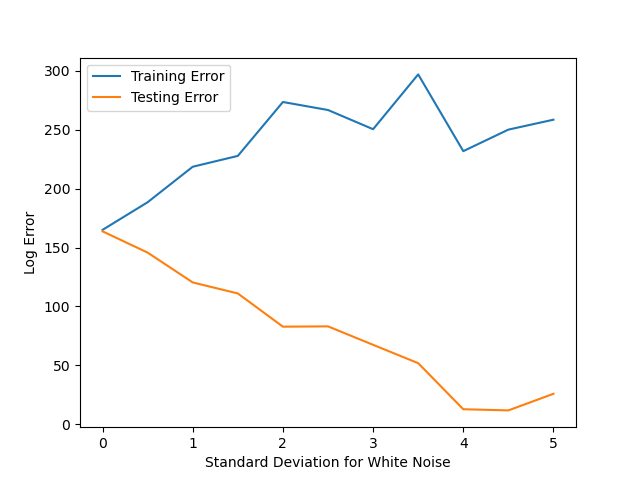
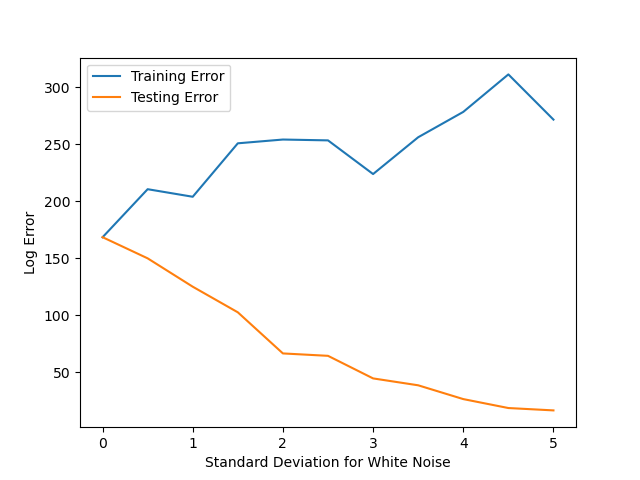
Update Lagrange Error to Log

diff --git a/lagrange_interpolation.py b/lagrange_interpolation.py
@@ -8,7 +8,7 @@ def add_noise(samples, standard_deviation):
     return samples_with_noise
 
 def error(labels, predictions):
-    return np.square(np.subtract(labels, predictions)).mean()
+    return np.log(np.square(np.subtract(labels, predictions)).mean())
 
 def main():
     train_samples = np.random.uniform(-2.0, 2.0, 100)
@@ -48,11 +48,11 @@ def main():
     np.savetxt(f'Homework 2 data/lagrange_test_errors_noise.txt', test_errors_noisy_samples, delimiter=' ', fmt='%s')
 
     standard_deviations = np.array(train_errors_noisy_samples)[:,0]
-    log_error_values_train = np.log(np.array(train_errors_noisy_samples)[:,1])
+    log_error_values_train = np.array(train_errors_noisy_samples)[:,1]
 
     plt.plot(standard_deviations, log_error_values_train, label = 'Training Error')
 
-    log_error_values_test = np.log(np.array(test_errors_noisy_samples)[:,1])
+    log_error_values_test = np.array(test_errors_noisy_samples)[:,1]
 
     plt.plot(standard_deviations, log_error_values_test, label = 'Testing Error')
     plt.xlabel("Standard Deviation for White Noise")
